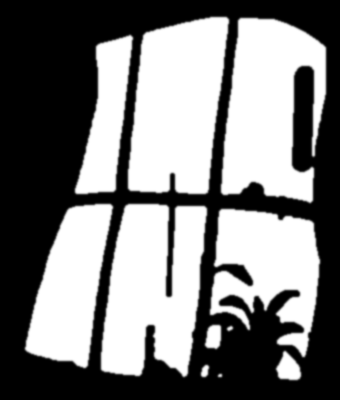
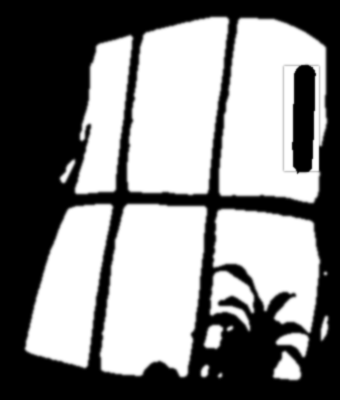
Fetch weather hourly on the NAS; weather covers the CN Tower; livelier thermometer
- ops/fetch-weather.py (NAS cron, hourly) writes validated Open-Meteo data
  to a read-only bind mount served as /data/weather.json; the page reads
  that first and only falls back to Open-Meteo directly.
- Glass mask now includes the CN Tower and pale buildings (they were
  excluded, so the tower showed through fog and rain), and cuts out only
  the thermometer's own outline instead of a rectangle.
- Thermometer liquid rises to the reading on load and bobs when clicked.
- Tests for the weather fetcher, including that its URL matches the page.

diff --git a/site/index.html b/site/index.html
@@ -72,7 +72,8 @@ body {
 @keyframes fall { from{transform:translate(0,-200px)} to{transform:translate(-30px,220px)} }
 .flake { animation: flake linear infinite; }
 @keyframes flake { 0%{transform:translate(0,-200px)} 50%{transform:translate(8px,0)} 100%{transform:translate(-4px,220px)} }
-#thermoLiquid { transition: y 1.2s ease, height 1.2s ease; }
+#thermoLiquid { transition: y 2.4s cubic-bezier(.2,.8,.3,1), height 2.4s cubic-bezier(.2,.8,.3,1); }
+#thermoLiquid.bob { transition-duration: .35s; }
 /* lighting that follows the painted time of day */
 #hot-me > g, #hot-cat image { transition: filter 1.6s ease; }
 [data-phase="night"] .lampPulse, [data-phase="dusk"] .lampPulse { opacity: .5; }
@@ -492,7 +493,13 @@ body {
       clearTimeout(catT); catT = setTimeout(() => { $('#catSleep').style.display = ''; $('#catAwake').style.display = 'none'; $('#zzz').style.visibility = ''; }, 3200);
       return;
     }
-    if (el.id === 'hot-thermo') { speak(616, 330, R.weatherLine(state.tempC, R.weatherFor(state.code))); talk(1800); return; }
+    if (el.id === 'hot-thermo') {
+      const liq = $('#thermoLiquid'), y = Number(liq.getAttribute('y')), h = Number(liq.getAttribute('height'));
+      liq.classList.add('bob'); liq.setAttribute('y', y - 5); liq.setAttribute('height', h + 5);
+      setTimeout(() => { liq.setAttribute('y', y); liq.setAttribute('height', h); setTimeout(() => liq.classList.remove('bob'), 400); }, 380);
+      const t = state.tSel === 'auto' ? state.tempC : Number(state.tSel), code = state.wxSel === 'auto' ? state.code : Number(state.wxSel);
+      speak(616, 330, R.weatherLine(t, R.weatherFor(code))); talk(1800); return;
+    }
     if (el.id === 'hot-window') { speak(840, 120, 'Toronto at night. The CN Tower is blinking.'); return; }
     if (el.id === 'hot-plaque') { $('#lightbox').tabIndex = -1; setTimeout(() => openLayer('#lightbox'), 200); return; }
     if (el.id === 'hot-pc') { $('#crtMsg').textContent = 'One click opens things.'; loadRepos(); setTimeout(() => openLayer('#deskOv', '#ico-gh'), 200); return; }
@@ -595,13 +602,16 @@ body {
   }
   async function fetchWeather() {
     try {
-      const r = await fetch(R.openMeteoUrl()); if (!r.ok) throw new Error(r.status);
+      // The NAS refreshes /data/weather.json hourly; Open-Meteo directly is only a fallback.
+      let r = await fetch('data/weather.json', { cache: 'no-cache' }).catch(() => null);
+      if (!r || !r.ok) r = await fetch(R.openMeteoUrl());
+      if (!r.ok) throw new Error(r.status);
       Object.assign(state, R.parseOpenMeteo(await r.json())); state.fetched = true;
     } catch (e) { /* keep the last reading; the room still follows the clock */ }
     status();
   }
   status(); fetchWeather();
-  setInterval(fetchWeather, 15 * 60 * 1000); setInterval(status, 60 * 1000);
+  setInterval(fetchWeather, 10 * 60 * 1000); setInterval(status, 60 * 1000);
   // preview panel: open with #preview to flip through every time of day and weather
   function showPreview() { $('#preview').hidden = location.hash !== '#preview'; status(); }
   window.addEventListener('hashchange', showPreview); showPreview();

diff --git a/ops/fetch-weather.py b/ops/fetch-weather.py
@@ -1,0 +1,70 @@
+#!/usr/bin/env python3
+"""Hourly Toronto weather for gabrielciolac.com. Lives on the NAS as /root/bin/fetch-weather.
+
+Fetches current conditions and today's sunrise/sunset from Open-Meteo and writes
+them atomically to the site app's data folder, which nginx serves read-only as
+/data/weather.json. Visitors' browsers read that file, so they never contact
+Open-Meteo themselves. On any failure the previous file is kept.
+Run by a TrueNAS cron job every hour. Logs: journalctl -t fetch-weather.
+"""
+import json
+import os
+import sys
+import tempfile
+import time
+import urllib.request
+
+# Keep in sync with openMeteoUrl() in site/room/logic.js (a test checks this).
+URL = ("https://api.open-meteo.com/v1/forecast?latitude=43.6532&longitude=-79.3832"
+       "&current=temperature_2m,weather_code,is_day&daily=sunrise,sunset&timezone=America%2FToronto&forecast_days=1")
+OUT = os.environ.get("WEATHER_OUT", "/mnt/.ix-apps/app_mounts/gabrielciolac-site/data/weather.json")
+
+
+def validate(data):
+    """Return the subset of an Open-Meteo response the page needs, or raise ValueError."""
+    if not isinstance(data, dict):
+        raise ValueError("response is not an object")
+    cur, daily = data.get("current") or {}, data.get("daily") or {}
+    temp, code, t = cur.get("temperature_2m"), cur.get("weather_code"), cur.get("time")
+    if not isinstance(temp, (int, float)) or not -60 <= temp <= 60:
+        raise ValueError("temperature missing or out of range: %r" % (temp,))
+    if not isinstance(code, int) or not 0 <= code <= 99:
+        raise ValueError("weather code missing or invalid: %r" % (code,))
+    sunrise, sunset = (daily.get("sunrise") or [None])[0], (daily.get("sunset") or [None])[0]
+    for name, v in (("time", t), ("sunrise", sunrise), ("sunset", sunset)):
+        if not isinstance(v, str) or "T" not in v:
+            raise ValueError("%s missing: %r" % (name, v))
+    return {
+        "current": {"time": t, "temperature_2m": temp, "weather_code": code, "is_day": cur.get("is_day")},
+        "daily": {"sunrise": [sunrise], "sunset": [sunset]},
+    }
+
+
+def write_atomic(path, obj):
+    d = os.path.dirname(path)
+    os.makedirs(d, exist_ok=True)
+    fd, tmp = tempfile.mkstemp(dir=d, prefix=".weather-", suffix=".json")
+    with os.fdopen(fd, "w") as f:
+        json.dump(obj, f, separators=(",", ":"))
+    os.chmod(tmp, 0o644)
+    os.replace(tmp, path)
+
+
+def main():  # pragma: no cover - network; exercised on the NAS
+    import syslog
+    syslog.openlog("fetch-weather")
+    try:
+        req = urllib.request.Request(URL, headers={"User-Agent": "gabrielciolac.com weather"})
+        with urllib.request.urlopen(req, timeout=20) as r:
+            data = validate(json.load(r))
+        data["fetched_at"] = int(time.time())
+        write_atomic(OUT, data)
+        c = data["current"]
+        syslog.syslog(syslog.LOG_INFO, "ok: %s°C code %s" % (c["temperature_2m"], c["weather_code"]))
+    except Exception as e:
+        syslog.syslog(syslog.LOG_WARNING, "failed, keeping previous file: %s" % e)
+        sys.exit(1)
+
+
+if __name__ == "__main__":
+    main()

diff --git a/test/test_fetch_weather.py b/test/test_fetch_weather.py
@@ -1,0 +1,64 @@
+import importlib.util
+import json
+import os
+import pathlib
+import re
+import tempfile
+import unittest
+
+ROOT = pathlib.Path(__file__).parent.parent
+spec = importlib.util.spec_from_file_location("fetch_weather", ROOT / "ops" / "fetch-weather.py")
+fw = importlib.util.module_from_spec(spec)
+spec.loader.exec_module(fw)
+
+GOOD = {
+    "latitude": 43.65, "longitude": -79.38, "generationtime_ms": 0.1,
+    "current": {"time": "2026-11-26T17:30", "interval": 900, "temperature_2m": 2.1, "weather_code": 3, "is_day": 0},
+    "daily": {"time": ["2026-11-26"], "sunrise": ["2026-11-26T07:15"], "sunset": ["2026-11-26T16:45"]},
+}
+
+
+class ValidateTests(unittest.TestCase):
+    def test_keeps_only_what_the_page_needs(self):
+        out = fw.validate(GOOD)
+        self.assertEqual(out, {
+            "current": {"time": "2026-11-26T17:30", "temperature_2m": 2.1, "weather_code": 3, "is_day": 0},
+            "daily": {"sunrise": ["2026-11-26T07:15"], "sunset": ["2026-11-26T16:45"]},
+        })
+
+    def test_rejects_missing_or_silly_values(self):
+        bad_cases = [
+            None, [], {},
+            {**GOOD, "current": {**GOOD["current"], "temperature_2m": None}},
+            {**GOOD, "current": {**GOOD["current"], "temperature_2m": 999}},
+            {**GOOD, "current": {**GOOD["current"], "weather_code": "3"}},
+            {**GOOD, "current": {**GOOD["current"], "weather_code": 150}},
+            {**GOOD, "daily": {"sunrise": [], "sunset": ["2026-11-26T16:45"]}},
+            {**GOOD, "current": {**GOOD["current"], "time": None}},
+        ]
+        for case in bad_cases:
+            with self.assertRaises(ValueError, msg=repr(case)[:80]):
+                fw.validate(case)
+
+
+class WriteTests(unittest.TestCase):
+    def test_write_is_atomic_and_readable(self):
+        with tempfile.TemporaryDirectory() as d:
+            path = os.path.join(d, "data", "weather.json")
+            fw.write_atomic(path, {"a": 1})
+            fw.write_atomic(path, {"a": 2})
+            self.assertEqual(json.load(open(path)), {"a": 2})
+            self.assertEqual(oct(os.stat(path).st_mode & 0o777), "0o644")
+            self.assertEqual([f for f in os.listdir(os.path.dirname(path)) if f.startswith(".weather-")], [])
+
+
+class SyncTests(unittest.TestCase):
+    def test_url_matches_the_page_logic(self):
+        js = (ROOT / "site" / "room" / "logic.js").read_text()
+        body = js[js.index("function openMeteoUrl"):]
+        js_url = "".join(re.findall(r"'([^']*)'", body[:body.index("}")]))
+        self.assertEqual(js_url, fw.URL)
+
+
+if __name__ == "__main__":
+    unittest.main()

diff --git a/README.md b/README.md
@@ -10,11 +10,11 @@ terminates TLS for `gabrielciolac.com` / `www`.
 
 The homepage is a point-and-click room: `site/index.html` (hotspots, puppet animation, overlays) plus painted layers in `site/room/`. Art sources and the generation scripts live outside the repo in `~/co/gabrielciolac-art/`.
 
-**Time and weather:** the room swaps between four paintings (`room/room-{dawn,day,dusk,night}.webp`) using Toronto's sunrise and sunset, and the window shows live weather and temperature from Open-Meteo (no key). Add `#preview` to the URL to flip through every time of day, weather and temperature. The logic lives in `site/room/logic.js`.
+**Time and weather:** the room swaps between four paintings (`room/room-{dawn,day,dusk,night}.webp`) using Toronto's sunrise and sunset, and the window shows live weather and temperature. A NAS cron job (`/root/bin/fetch-weather`, hourly at :03, source in `ops/fetch-weather.py`) writes Open-Meteo data to `/mnt/.ix-apps/app_mounts/gabrielciolac-site/data/weather.json`, which is bind-mounted read-only and served as `/data/weather.json`, so visitors never contact Open-Meteo themselves (the page only falls back to it if the file is missing). Add `#preview` to the URL to flip through every time of day, weather and temperature. The logic lives in `site/room/logic.js`.
 
 **Tests:** `node --test test/*.test.js` (logic, assets, no internal IPs) and `python3 -m unittest discover -s test -p 'test_*.py'` (deploy hook). CI runs both before building an image.
 
-The NAS-side scripts are versioned in `ops/` (`deploy-hook.py`, `deploy-hook-run`, `site-autodeploy`); copy them to `/root/bin/` on the NAS after changing them.
+The NAS-side scripts are versioned in `ops/` (`deploy-hook.py`, `deploy-hook-run`, `site-autodeploy`, `fetch-weather.py`); copy them to `/root/bin/` on the NAS after changing them.
 
 To make the mail table open an email, set `MAIL_TO` near the top of the script in `site/index.html`.
 
